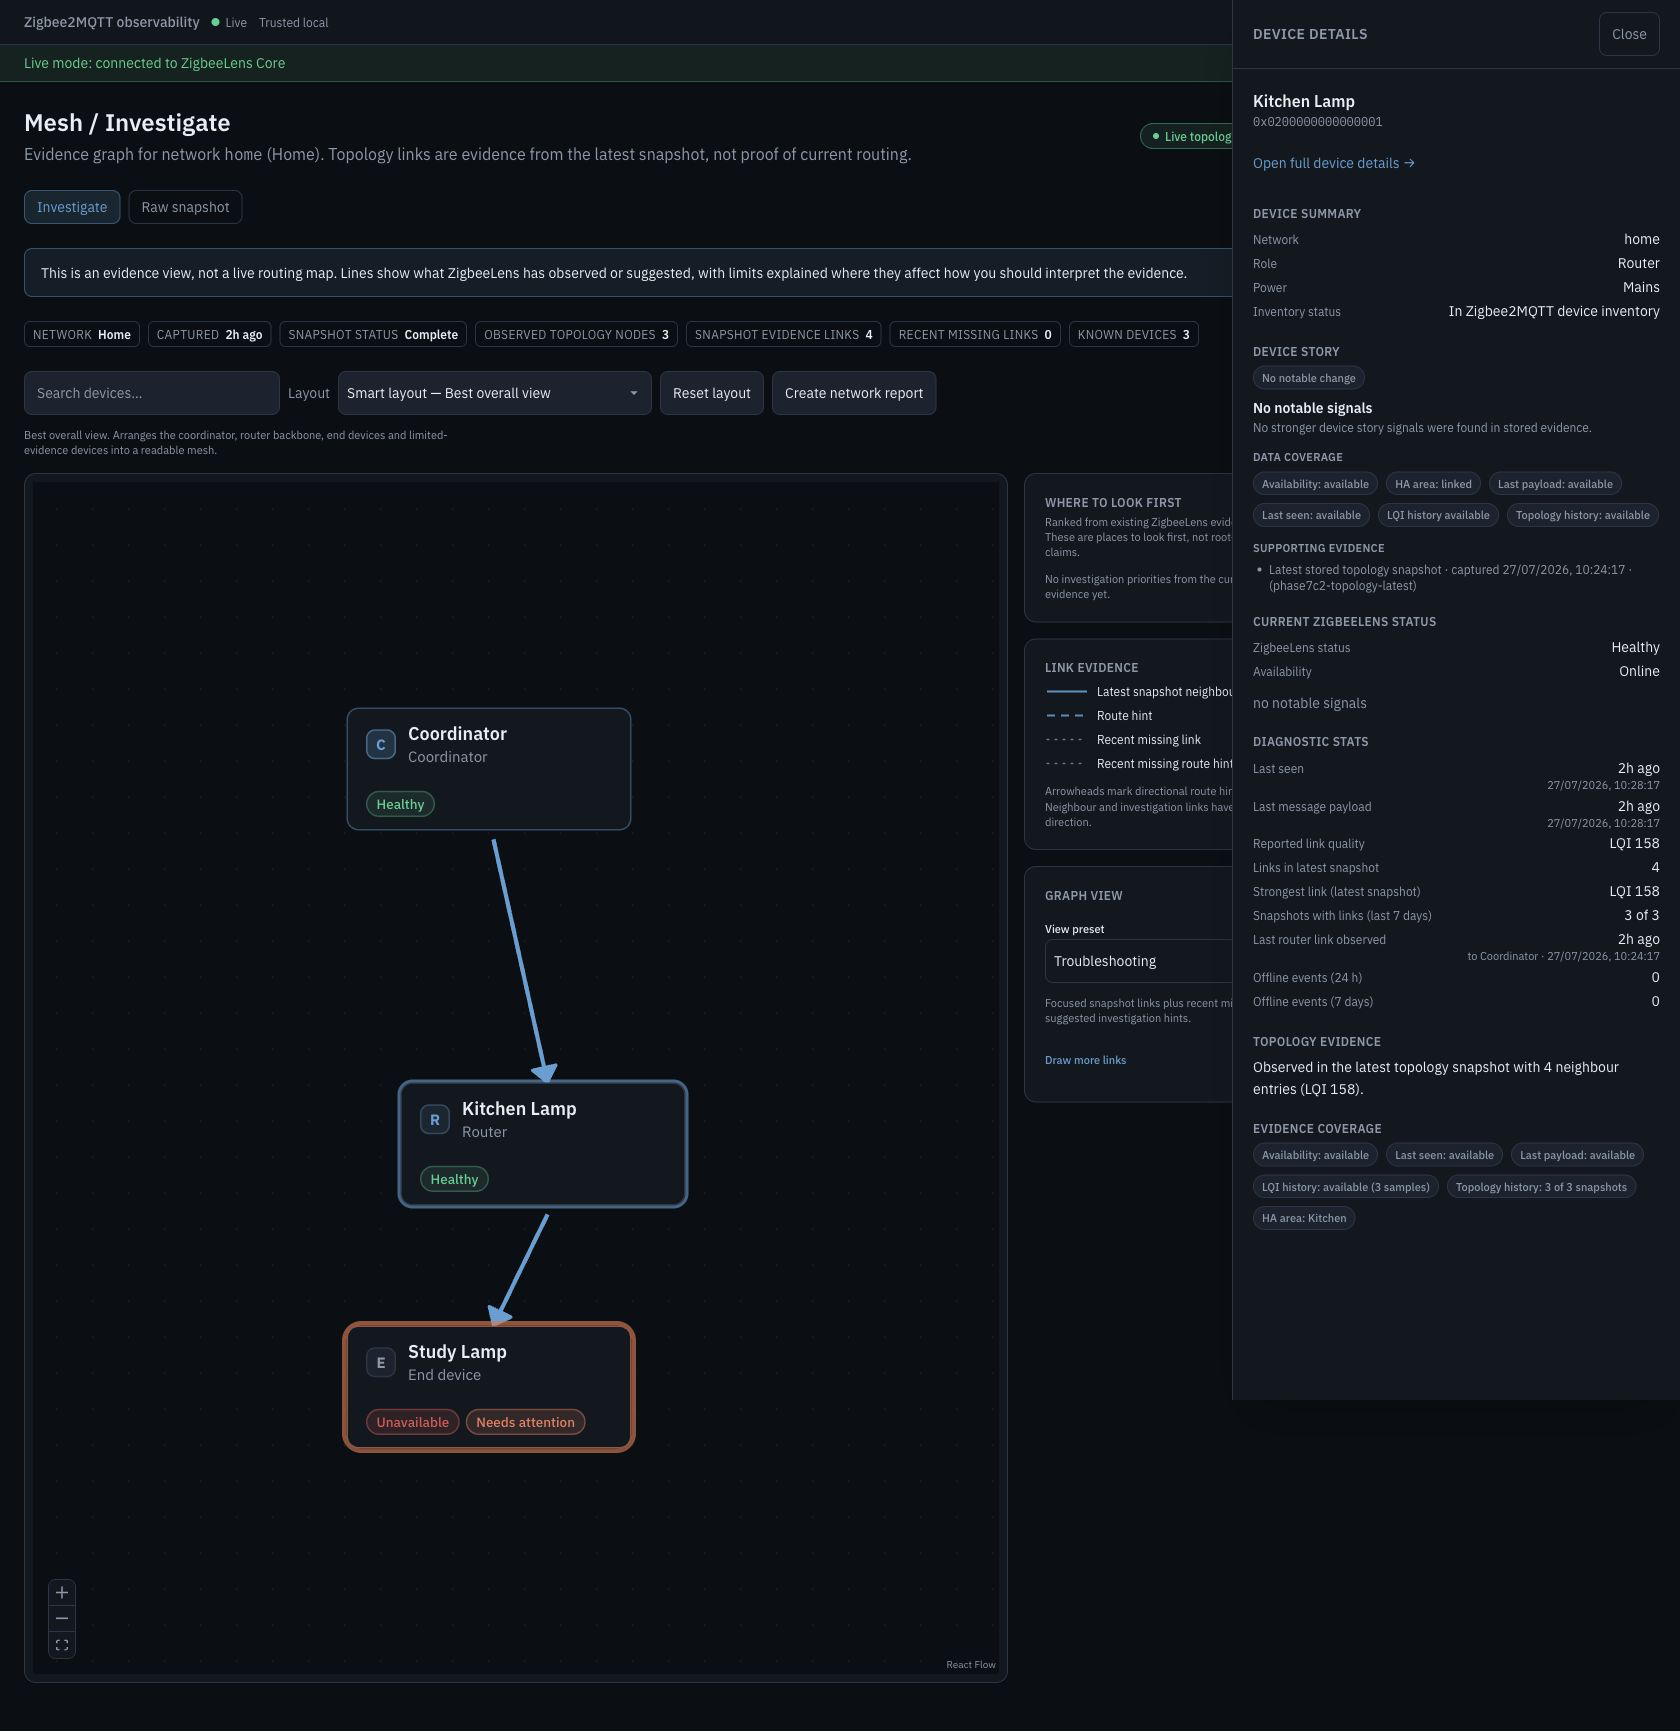
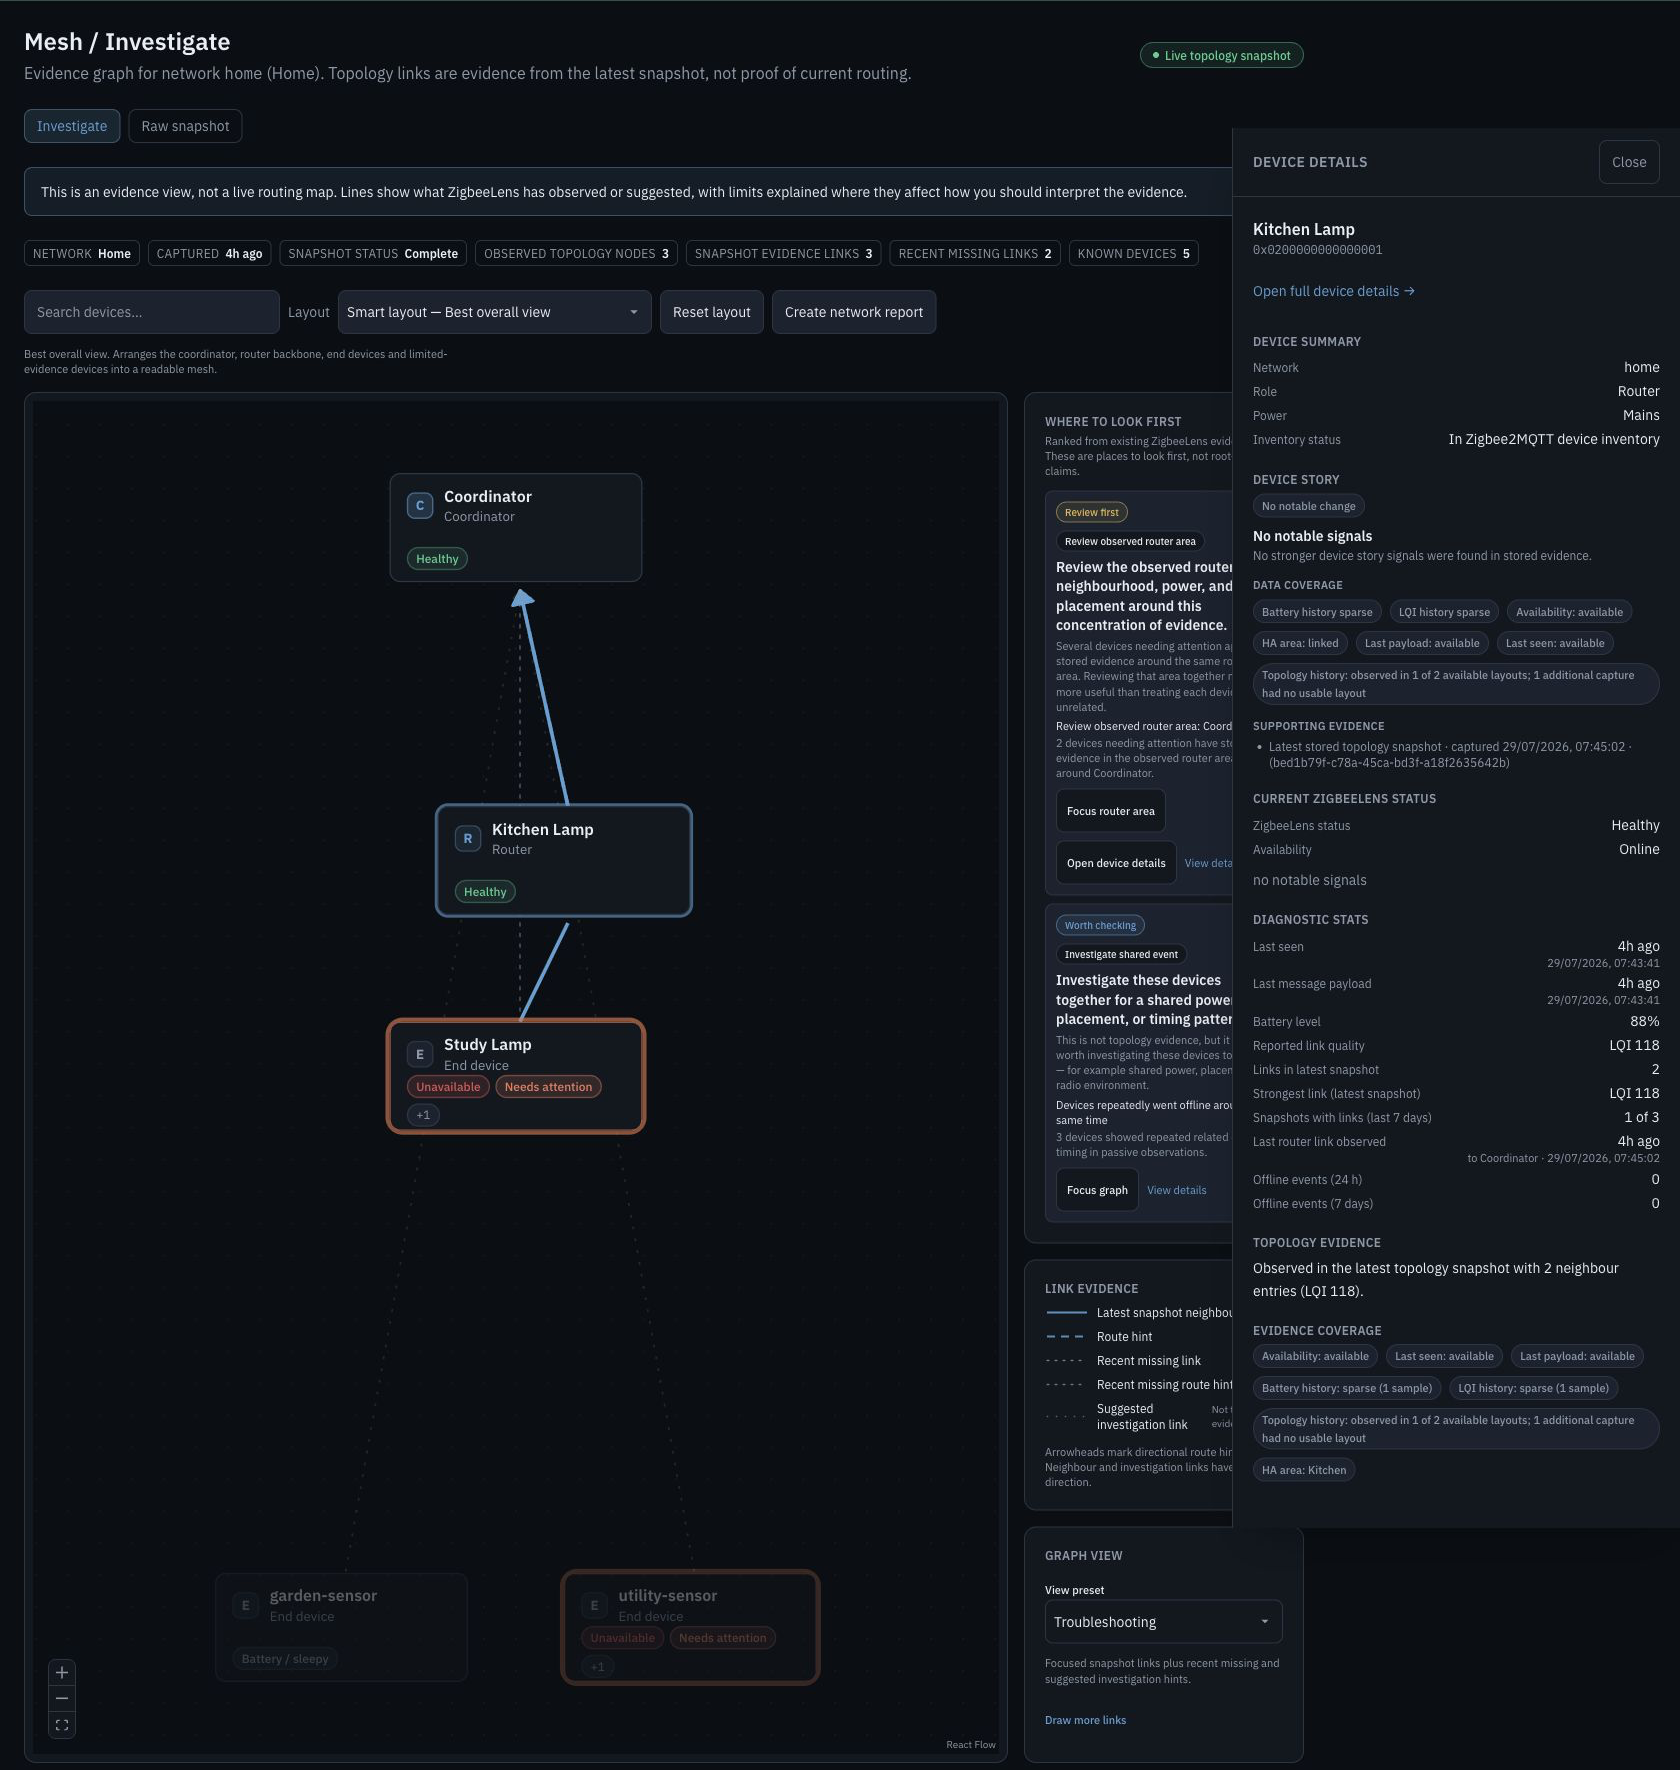
docs: recapture final Core release visuals

diff --git a/docs/reports.md b/docs/reports.md
@@ -5,16 +5,21 @@ history and the current decision-led diagnostic state. A report records what
 Core observed and the limitations of that evidence; it does not prove a root
 cause or a live Zigbee route.
 
-> **Screenshot status:** The prior Phase 7C2 S1–S9 set predates the current
-> runtime/UI correction and is stale release evidence. All nine images must be
-> recaptured together from one final corrected runtime before Phase 7D.
+> **Screenshot status:** The complete Phase 7C2 S1–S9 set was recaptured
+> together on `2026-07-29` from immutable source
+> `af04ee906b71de77ee6e0eb5d866c0647d502410`. It is final-candidate review
+> evidence; Phase 7D remains blocked.
 
-![Saved Reports showing exact-v3 scope, format, redaction profile, and download actions](screenshots/reports-page.png)
+![Saved Reports collection showing a generated synthetic report's summary, generated time, scope, format, redaction profile, and Download, Copy Markdown, and Delete actions](screenshots/reports-page.png)
 
-Illustrative synthetic release-candidate data. This image belongs to the stale
-prior candidate. Saved Reports shows the captured exact-v3 report state, with
-each row's scope, format, redaction ownership, evidence counts, and supported
-download actions kept explicit.
+Illustrative synthetic release-candidate data. This final-candidate evidence
+was captured from source `af04ee906b71de77ee6e0eb5d866c0647d502410` on
+`2026-07-29`. The image shows the current saved-report summary collection,
+including visible generated time, scope, format, redaction profile, and
+saved-report actions. The exact `ReportDetailV3` stored body, per-collection
+timeline bounds, `/api` and `/api/v1` parity, structured downloads, and
+clipboard Markdown were validated mechanically; they are not visual claims
+about this summary-only collection.
 
 ## Current contract: exact ReportDetailV3
 
@@ -109,6 +114,13 @@ Preview returns `ReportDetailV3` and does not store it. A create request returns
 `redaction_applied`, `incident_count`, `device_count`, `network_count`,
 `summary`, `format`, `scope`, and `redaction_profile`.
 
+The production Reports page renders a collection of these `ReportSummary`
+rows; it does not render a stored `ReportDetailV3` body inline. The full stored
+detail is fetched only for **Copy Markdown** and downloads. S5 therefore
+documents summary metadata and saved-report actions, while S6 owns contextual
+creation and preview. Exact-v3 body validity and timeline limits remain
+runtime/API contracts.
+
 ## API lifecycle
 
 `/api/v1` is preferred for new clients. Every route below has a compatible
@@ -154,12 +166,13 @@ The UI fixes scope and target at the launching surface:
 | Mesh / Investigate | Create network report | `network` for that route's network |
 | Reports | Create full report | `full` |
 
-![Contextual device report dialog showing the fixed Kitchen Lamp target, exact-v3 controls, and a nonempty preview](screenshots/report-contextual-create.png)
+![Contextual device report dialog for Kitchen Lamp showing the fixed synthetic target, current scope, format and redaction controls, a valid nonempty preview, and the create action](screenshots/report-contextual-create.png)
 
-Illustrative synthetic release-candidate data. This image belongs to the stale
-prior candidate. This contextual flow fixes the exact synthetic device target
+Illustrative synthetic release-candidate data. This final-candidate evidence
+was captured from source `af04ee906b71de77ee6e0eb5d866c0647d502410` on
+`2026-07-29`. This contextual flow fixes the exact synthetic device target
 before preview, then applies the captured scope, format, and redaction controls
-to a nonempty exact-v3 plan; it does not rediscover or guess the target.
+to a valid nonempty exact-v3 plan; it does not rediscover or guess the target.
 
 The Reports page is primarily Saved reports history. The shared dialog selects
 format and redaction profile, shows a compact preview, then offers Save or Save

diff --git a/docs/topology.md b/docs/topology.md
@@ -91,25 +91,30 @@ unknown evidence, never zero or absence.
 
 ## Current investigation surfaces
 
-> **Screenshot status:** The prior Phase 7C2 S1–S9 set predates the current
-> runtime/UI correction and is stale release evidence. All nine images must be
-> recaptured together from one final corrected runtime before Phase 7D.
+> **Screenshot status:** The complete Phase 7C2 S1–S9 set was recaptured
+> together on `2026-07-29` from immutable source
+> `af04ee906b71de77ee6e0eb5d866c0647d502410`. It is final-candidate review
+> evidence; Phase 7D remains blocked.
 
-![Mesh Investigate showing a synthetic evidence graph, evidence metrics, and an HA-enriched device drawer](screenshots/mesh-investigate.png)
+![Mesh Investigate for the synthetic Home network showing evidence metrics, investigation cards, the evidence graph, and the HA-enriched Kitchen Lamp drawer with Open device details](screenshots/mesh-investigate.png)
 
-Illustrative synthetic release-candidate data. This image belongs to the stale
-prior candidate. Mesh / Investigate presents stored evidence around the selected
-network; graph lines and metric counts are capture-time observations, not proof
-of a current route, causation, or complete history. The displayed Home Assistant
-name and area are additional metadata.
+Illustrative synthetic release-candidate data. This final-candidate evidence
+was captured from source `af04ee906b71de77ee6e0eb5d866c0647d502410` on
+`2026-07-29`. Mesh / Investigate presents stored evidence around the selected
+network, with the Kitchen Lamp drawer and **Open device details** action
+visible. Graph lines and metric counts are capture-time observations, not proof
+of a current route, causation, or complete history. The displayed Home
+Assistant name and area are additional metadata.
 
-![Device Detail showing the Kitchen Lamp decision, snapshot history, HA area, and preserved source identity](screenshots/device-detail-history.png)
+![Kitchen Lamp Device Detail showing its current Decision and Device Story, partial topology-history coverage, a selected earlier snapshot marked Changed, Kitchen HA metadata, and preserved source-lamp identity](screenshots/device-detail-history.png)
 
-Illustrative synthetic release-candidate data. This image belongs to the stale
-prior candidate. Device Detail presents the preferred Home Assistant name and
-area alongside the preserved Zigbee2MQTT source identity. Its Device Story and
-snapshot comparisons remain historical evidence with explicit coverage
-limits, not proof of a current path or cause.
+Illustrative synthetic release-candidate data. This final-candidate evidence
+was captured from source `af04ee906b71de77ee6e0eb5d866c0647d502410` on
+`2026-07-29`. Device Detail presents the Kitchen Lamp Home Assistant name and
+area alongside preserved `source-lamp` Zigbee2MQTT identity. Its current Device
+Story, available and limited coverage, and selected earlier `Changed`
+comparison are historical evidence with unavailable values left unavailable;
+they do not prove a current path, movement, parent, failure, or cause.
 
 ## Product surfaces
 

diff --git a/README.md b/README.md
@@ -11,14 +11,14 @@ reports for troubleshooting. Its job is to show what is worth reviewing, why,
 which evidence supports that judgement, and what the available data cannot
 prove.
 
-![ZigbeeLens Overview showing its decision summary, investigation priorities, network context, and recent changes](docs/screenshots/overview-dashboard.png)
+![ZigbeeLens Overview for the synthetic Home network showing its Decision summary, investigation priorities, network and device context, recent changes, and evidence limits](docs/screenshots/overview-dashboard.png)
 
-Illustrative synthetic release-candidate data. This image belongs to the
-now-stale prior Phase 7C2 set. The Overview leads with its Decision summary,
-then places investigation priorities, network/device context, recent changes,
-and evidence limits together without inventing measurements for unavailable
-data. Recapture S1–S9 together from the final corrected runtime before Phase
-7D.
+Illustrative synthetic release-candidate data. This final-candidate evidence
+was captured on `2026-07-29` from immutable source
+`af04ee906b71de77ee6e0eb5d866c0647d502410`. The Overview leads with its
+Decision summary, then places investigation priorities, network/device context,
+recent changes, and evidence limits together without inventing measurements
+for unavailable data.
 
 ZigbeeLens is part of the **Lens family** of read-only home-network observability tools, alongside [ThreadLens](https://github.com/theaussiepom/threadlens). The active public diagnostic contract is **decision contract v2** (not retired Lens-bucket fields); see [docs/api.md](docs/api.md) and [docs/lens-family.md](docs/lens-family.md).
 
@@ -74,10 +74,12 @@ See [docs/safety-audit.md](docs/safety-audit.md) for the full safety audit.
 | [MQTT Discovery](docs/mqtt-discovery.md) | Optional summary HA entities without HACS | Core configuration |
 | [Topology](docs/topology.md) | Optional mesh enrichment — enabled by default with one startup scan | Core configuration |
 
-Phase 7C1 documentation truth is merged. The prior Phase 7C2 screenshots retain
-their exact historical provenance but are stale after runtime/UI corrections;
-all S1–S9 require one-source recapture. Phase 7D live Beast validation remains
-blocked.
+Phase 7C1 documentation truth is merged. The refreshed Phase 7C2 S1–S9 evidence
+was captured from one immutable runtime source,
+`af04ee906b71de77ee6e0eb5d866c0647d502410`, and is ready for independent
+review. This does not release `0.1.14` or unblock Phase 7D: the public HACS
+satellite remains stale, the add-on remains deferred, and Phase 7D live Beast
+validation remains blocked.
 
 ## Using the UI
 

diff --git a/docs/troubleshooting.md b/docs/troubleshooting.md
@@ -79,13 +79,14 @@ If two devices share a name within one network, use IEEE address in the UI and r
 - Mock mode — switch to live or select a scenario with incidents
 - Recent instability may still be in "watching" state
 
-![Incident detail showing status, affected scope, evidence, interpretation, and explicit limitations](screenshots/incidents-page.png)
+![Resolved high-severity synthetic Study availability incident showing affected scope, supporting evidence, the counter-evidence statement, interpretation, and explicit limitations](screenshots/incidents-page.png)
 
-Illustrative synthetic release-candidate data. This image belongs to the
-now-stale prior Phase 7C2 set. An Incident keeps status, affected scope,
-supporting evidence, counter-evidence, and limitations visible together. It
-records a pattern worth investigating; it does not establish a root cause.
-Recapture S1–S9 together from the final corrected runtime before Phase 7D.
+Illustrative synthetic release-candidate data. This final-candidate evidence
+was captured from immutable source
+`af04ee906b71de77ee6e0eb5d866c0647d502410` on `2026-07-29`. This resolved
+high-severity availability Incident keeps its Study scope, supporting evidence,
+counter-evidence statement, interpretation, and limitations visible together.
+It records a pattern worth investigating; it does not establish a root cause.
 
 ## Reports redaction looks too aggressive
 
